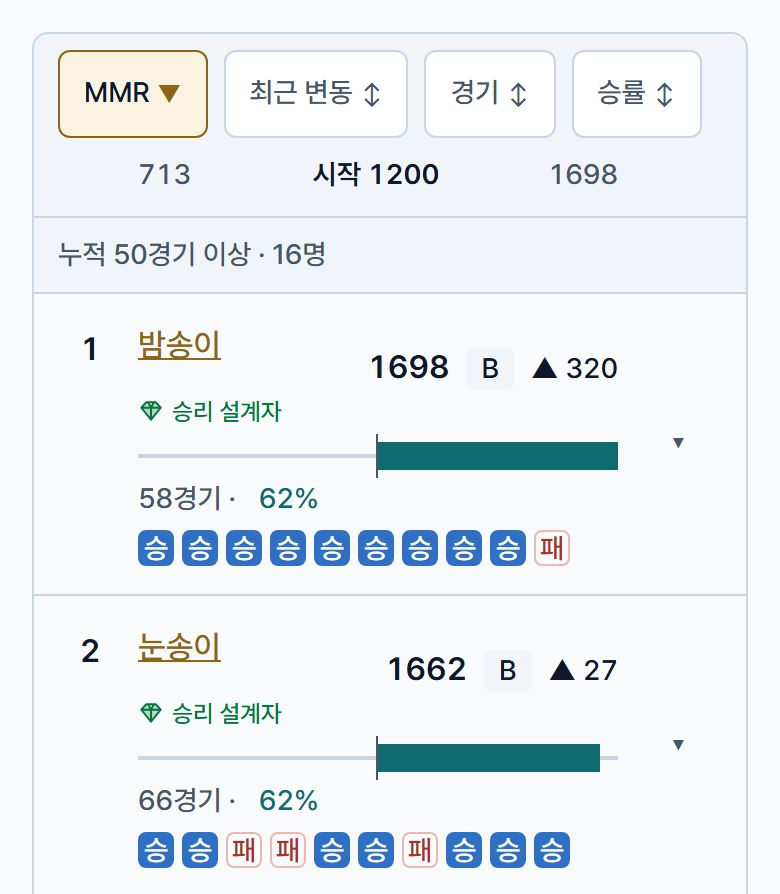
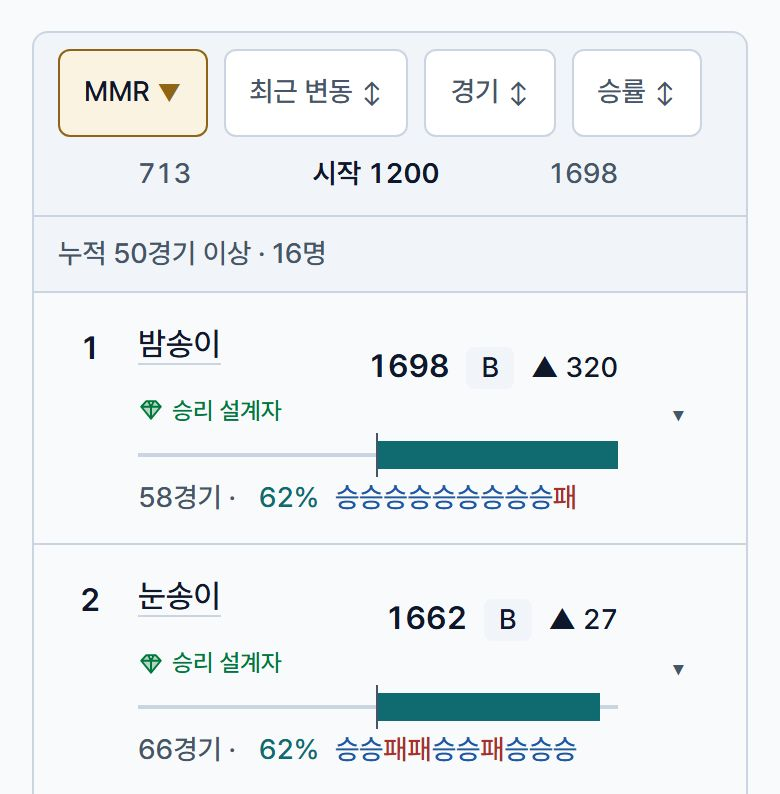
소개 예시 사진 다시 찍기: 팀 짜기는 팀 상자만, 랭킹은 지금 모양으로
- capture-intro-shots.mjs: 팀 짜기 사진을 화면 머리 없이 .teams부터 자름(362→300px)
- 여덟 장 모두 다시 찍음. 랭킹 사진이 11-17 전 모양(색칸 승패·골드 이름)이라 지금 화면으로(448→398px)
- Intro.tsx 사진 자리 높이 맞춤
- 구현현황·배포-이어하기 기록

diff --git a/src/web/screens/Intro.tsx b/src/web/screens/Intro.tsx
@@ -32,13 +32,13 @@ const FEATURES: { icon: LineIconName; title: string; text: string; shot: IntroSh
     icon: "group",
     title: "팀 짜기",
     text: "10명을 넣으면 티어로 실력을 맞춘 두 팀을 추천하고, 서포터를 돌아가며 맡도록 순서를 챙겨요.",
-    shot: { name: "prep", alt: "팀 짜기 화면 예시: 블루팀·레드팀에 탑부터 서폿까지 라인별로 다섯 명씩 배치돼 있다", height: 362 },
+    shot: { name: "prep", alt: "팀 짜기 화면 예시: 블루팀·레드팀에 탑부터 서폿까지 라인별로 다섯 명씩 배치돼 있다", height: 300 },
   },
   {
     icon: "ranking",
     title: "전적과 랭킹",
     text: "경기 결과를 저장하면 승률 랭킹, 라인별 기록, 함께 뛴 사람별 기록이 쌓여요.",
-    shot: { name: "ranking", alt: "MMR 랭킹 화면 예시: 순위, 이름, MMR, 경기 수와 승률, 최근 10경기 승패가 줄마다 보인다", height: 448 },
+    shot: { name: "ranking", alt: "MMR 랭킹 화면 예시: 순위, 이름, MMR, 경기 수와 승률, 최근 10경기 승패가 줄마다 보인다", height: 398 },
   },
   {
     icon: "link",

diff --git a/docs/구현현황/2026-11-16.md b/docs/구현현황/2026-11-16.md
@@ -734,3 +734,11 @@ E2E `draft-handoff`에 셋을 더했다. 저장을 막은 휴대폰에서 이어
 검사에서 둘이 걸렸다. first-use의 "좁은 화면과 긴 이름"이 넓은 화면에서 메뉴 y가 정확히 64px이기를 기대하고 있어 login-entry와 같은 식(바 높이 안)으로 고쳤다. 첫 화면 번들 검사는 우리 코드 brotli 17.1KB로 예산 17KB를 넘었다. 바꾸기 전 HEAD가 이미 16.9KB였고 이번 변경이 0.2KB를 더했다. 실패 출력의 상위 파일이 App·ui·useApp·account뿐이라 떼어 낼 것이 없었고, 이 예산은 화면 부품을 잘못 붙여 2~5KB씩 느는 실수를 잡으려는 것이라 18KB로 올렸다. 여유 1KB 남짓이면 그런 실수는 여전히 걸린다.
 
 확인: typecheck·lint 0, 단위 1259, build·audit:design 통과, check:bundle(18KB) 통과, 전체 E2E 182 통과 뒤 실패 2건을 고쳐 first-use·login-entry 다시 통과. 로컬 화면은 1440·768(로그인 상태)·390에서 찍어 봤다. 768px 가로 넘침 0, 390px은 하단 탭 그대로이고 라이트 전환이 된다.
+
+## 2026-11-26 소개 예시 사진 다시 찍기: 팀 짜기는 팀 상자만
+
+같은 시안 비교에서 처음에는 소개 오른쪽 예시가 "카드 안의 카드"라 규칙 2절에 어긋난다고 봤는데, 코드를 열어 보니 DOM 카드가 아니라 실제 화면을 찍은 사진이었다. 패널 안에 화면이 하나 더 들어 있는 것처럼 보인 진짜 이유는 팀 짜기 사진 위쪽에 함께 찍힌 화면 머리("← 오늘 · 다음 경기 준비 · 이 기기에만 있어요")였다. 사진만 보는 사람에게는 누를 수 없는 뒤로 가기와 배지가 보이는 셈이다. capture-intro-shots.mjs에서 팀 짜기 사진을 블루·레드 상자(.teams)부터 자르게 바꿨다. 사진 높이가 362px에서 300px로 줄어 1440×900에서 소개 전체가 첫 화면에 들어온다.
+
+다시 찍고 보니 랭킹 사진은 11-16에 찍은 뒤 화면이 바뀐 것이 반영되지 않은 채였다. 최근 승패가 색칸이고 이름이 골드 링크인, 11-17 전의 모양이었다. 스크립트가 여덟 장을 한꺼번에 찍으므로 나머지도 지금 화면으로 맞춰 함께 넣었다. 랭킹 사진은 승패가 글자 한 줄이 되어 448px에서 398px로 줄었고, Intro.tsx의 자리 잡기 높이(prep 300, ranking 398)를 같이 고쳤다. 참가 신청·시즌 요약은 높이가 같다.
+
+확인: typecheck·lint 0, build·check:bundle·audit:design(위반 0) 통과, E2E intro-demo·first-use·search-index 13개 통과. 로컬 처음 방문 상태로 1440×900(소개와 예시가 한 화면에 들어옴)과 390×844("로그인 없이 팀 짜기" 아래 끝 380px, 하단 탭 780px, 가로 넘침 0)를 찍어 봤다.
